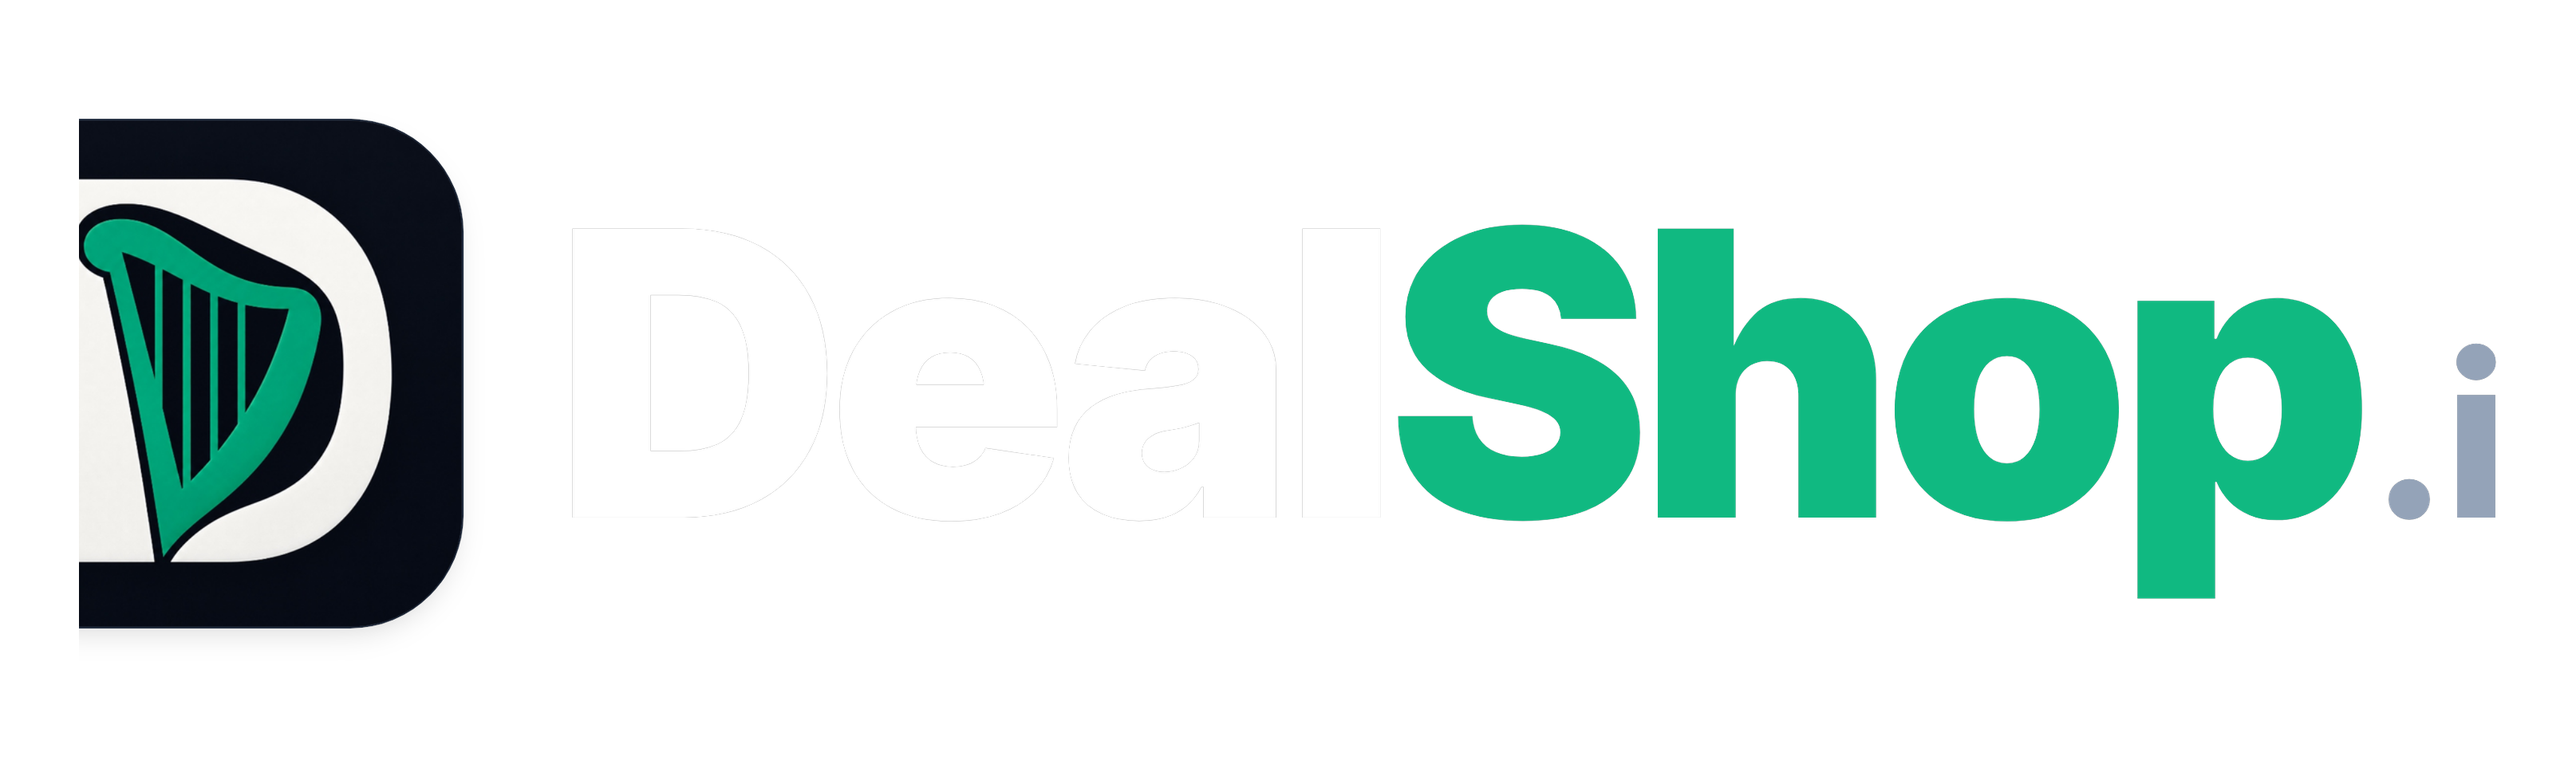
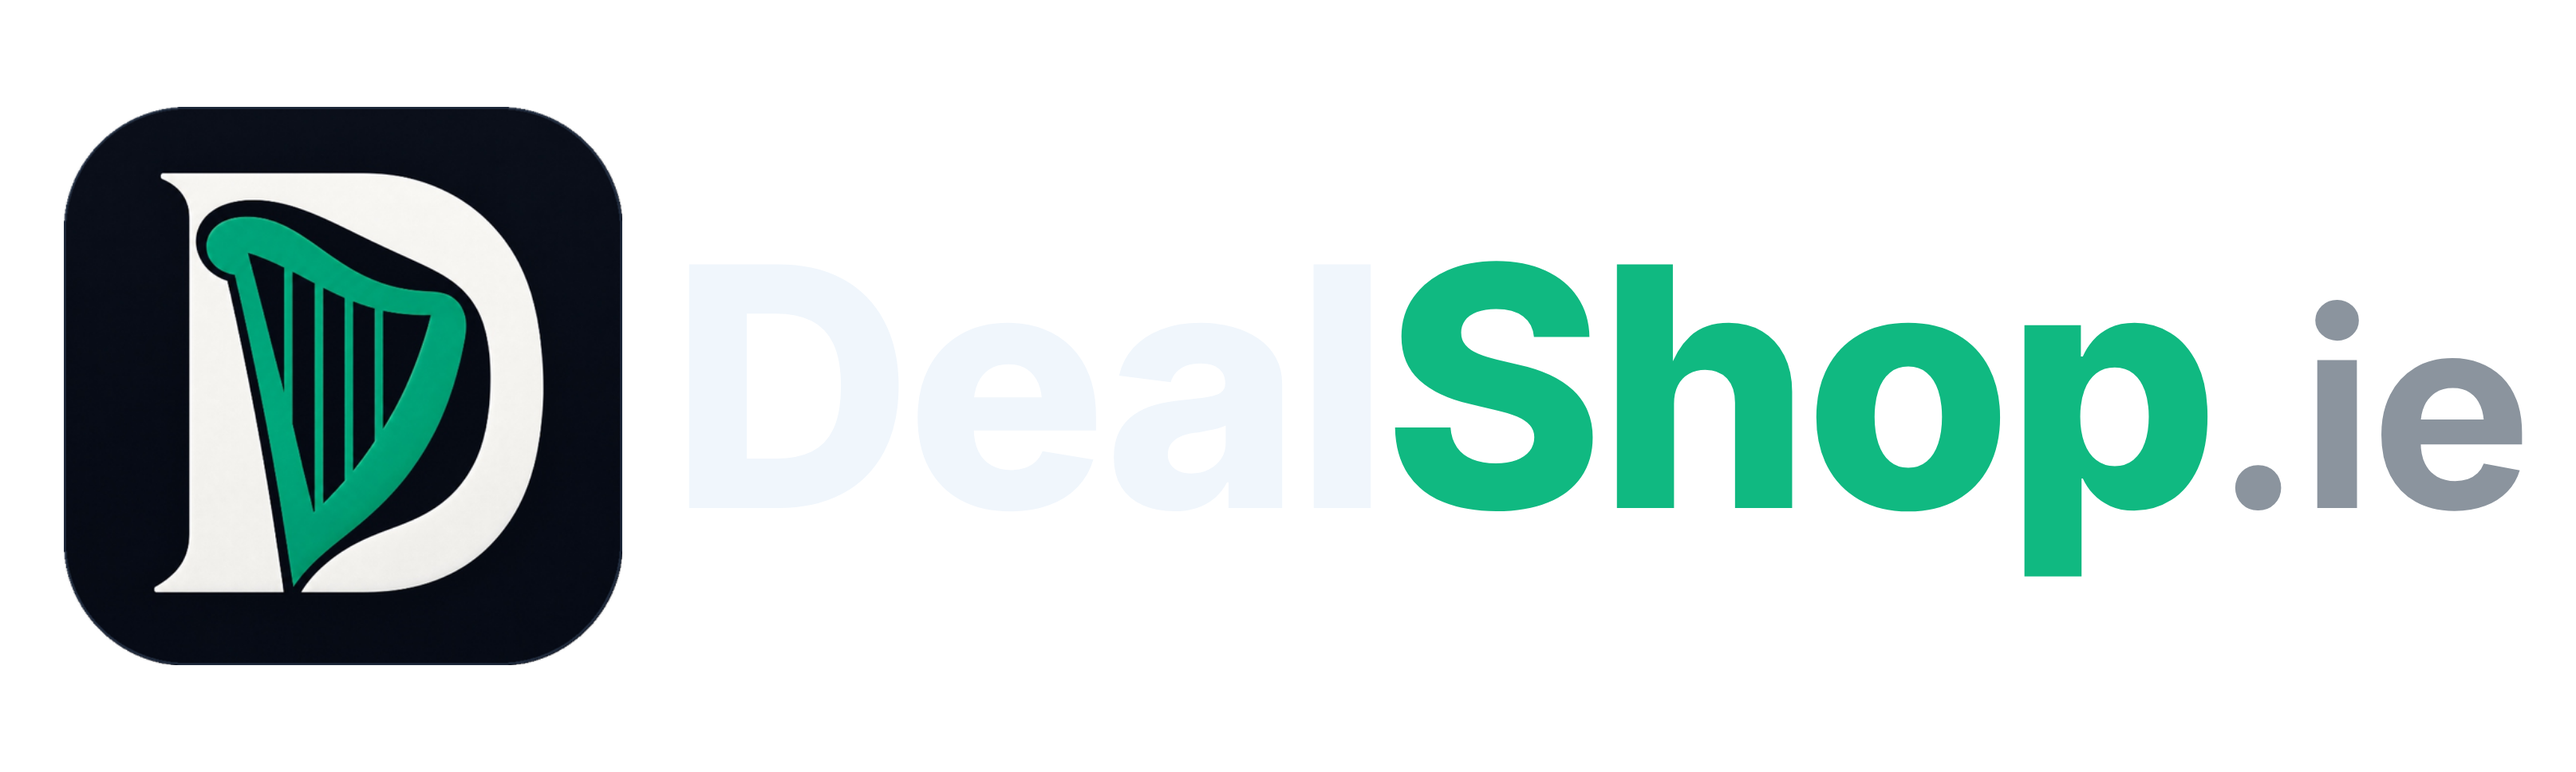
fix(brand): regenerate DealShop.ie badge PNG with full text and correct emblem rendering (v36)
- Regenerated company_dealshop.png and company_dealshop_light.png using Playwright

- Fixed: '.ie' text was cut off in previous PNG (only 'DealShop.i' visible)

- Fixed: 'Deal' text was invisible outline instead of solid white/dark

- Both dark and light variants now match BYOUR badge dimensions (3229x968)

- Cache busted to v=36

Changed region(s): [[0.0, 0.124, 0.2478, 0.8678], [0.5265, 0.2789, 0.991, 0.7748]]

diff --git a/index.html b/index.html
@@ -897,7 +897,7 @@
                     </div>
                     <div class="timeline-col-content">
                         <div class="company-logo-row">
-                            <img src="assets/company_dealshop.png?v=35" alt="DealShop Ireland" class="company-logo company-wordmark company-logo-dealshop">
+                            <img src="assets/company_dealshop.png?v=36" alt="DealShop Ireland" class="company-logo company-wordmark company-logo-dealshop">
                             <div>
                                 <h3 class="role-title">Co-Founder &amp; Lead Platform Architect</h3>
                                 <div class="role-meta">DealShop &bull; Dublin, Ireland &bull; Google Play &amp; Production</div>

diff --git a/style.css b/style.css
@@ -2705,7 +2705,7 @@ body.light-theme .company-avatar {
 }
 
 body.light-theme .company-logo-dealshop {
-    content: url("assets/company_dealshop_light.png?v=35");
+    content: url("assets/company_dealshop_light.png?v=36");
 }
 
 body.light-theme .company-logo-byour {
